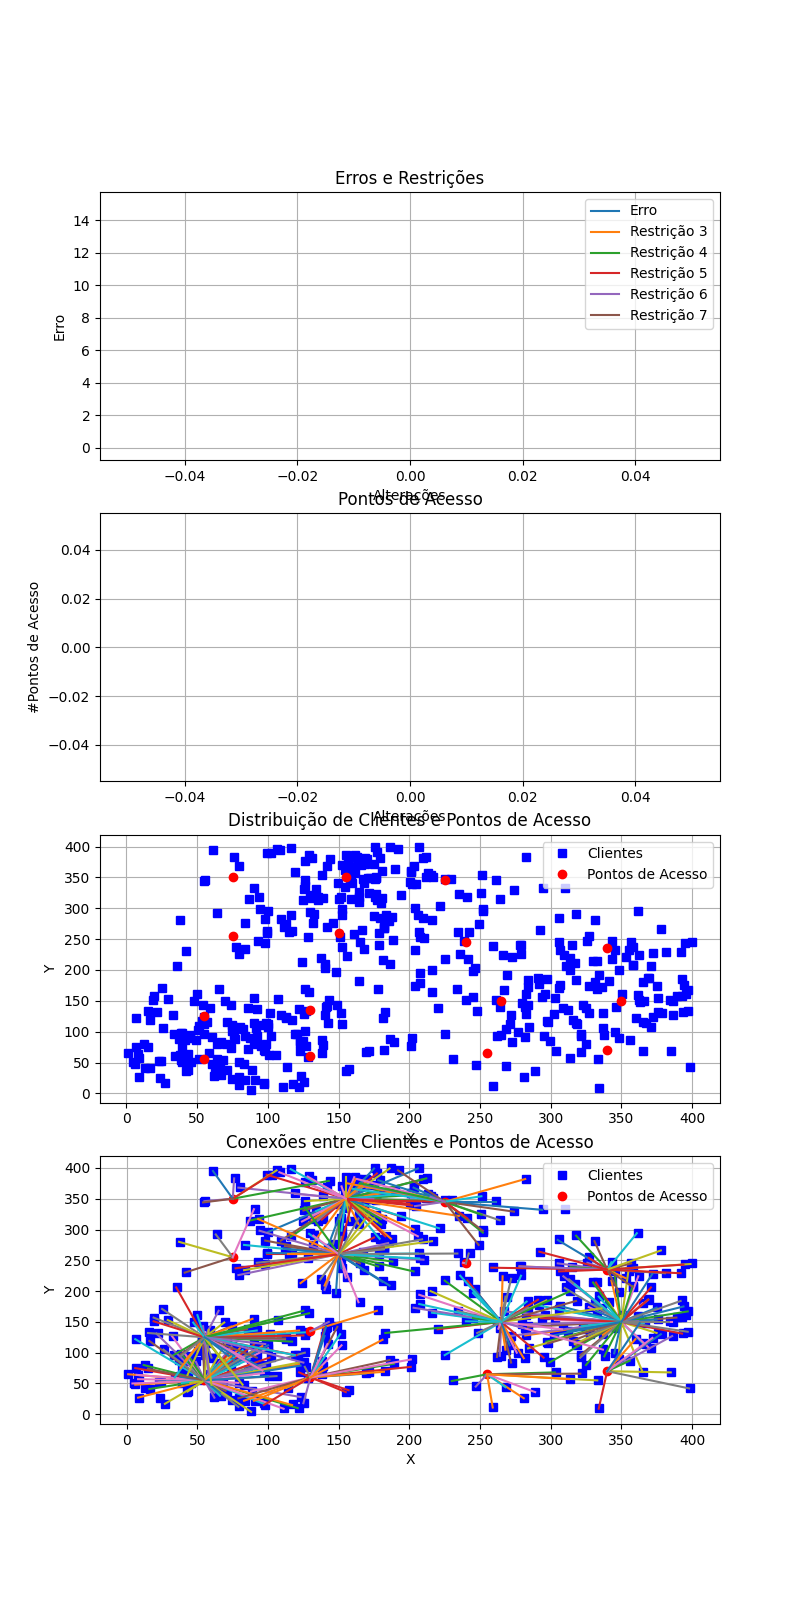
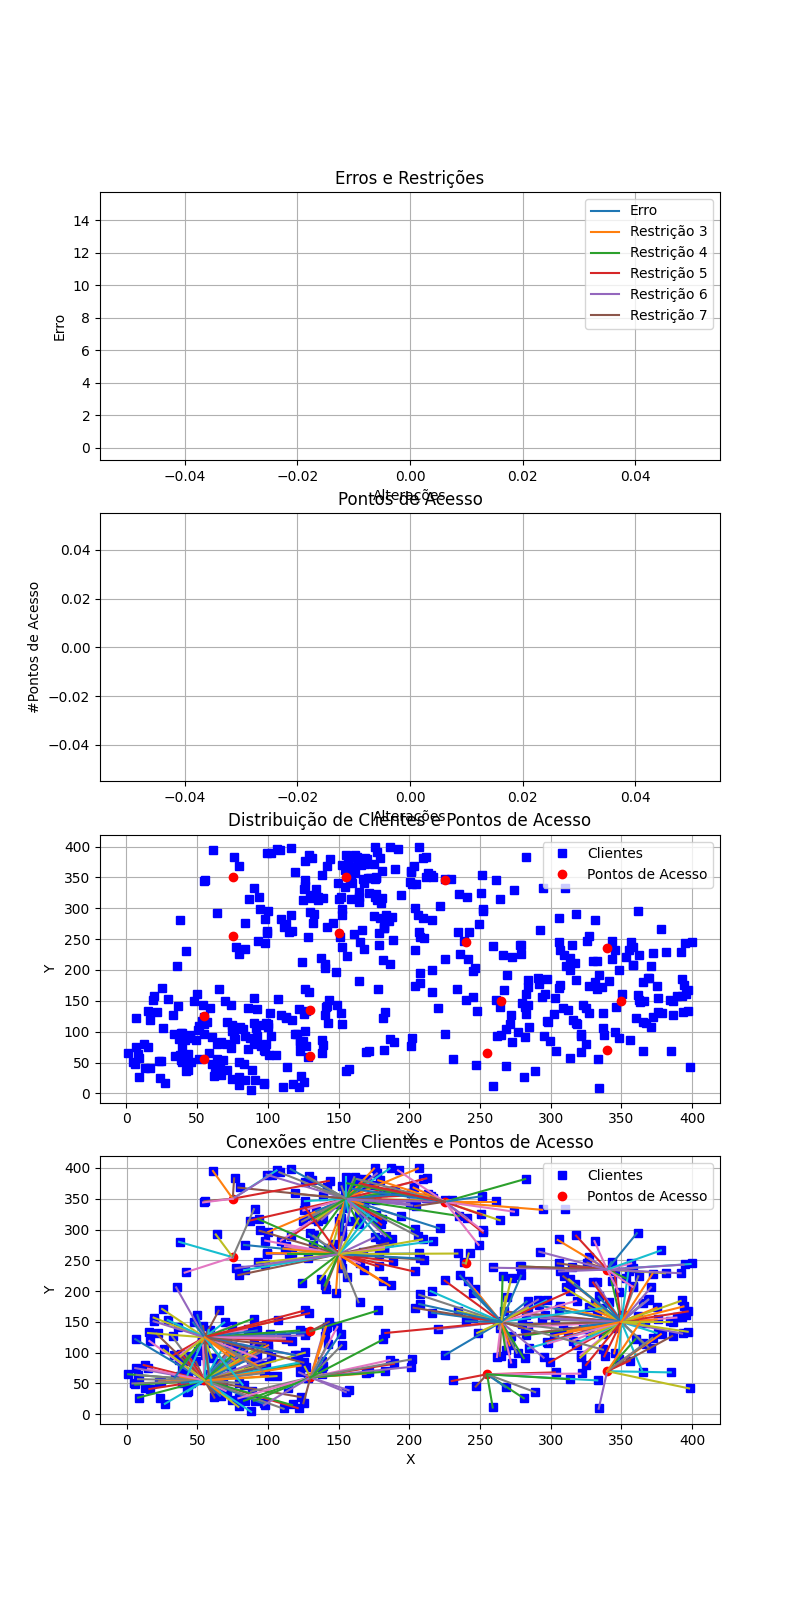
Falta entender pq r5 está com restriçao positiva (48 pessoas repetidas)

Changed region(s): [[0.1562, 0.7188, 0.875, 0.875]]

diff --git a/entregas/2 entrega/mop_solution/estrutura_vizinhanca.py b/entregas/2 entrega/mop_solution/estrutura_vizinhanca.py
@@ -39,10 +39,9 @@ def k1(dados):
     dados['cliente_por_PA'] = np.hstack((dados['cliente_por_PA'], coluna_zeros))
 
 
-    dados = realoca_clientes(dados, clientes_desalocados, 1)
+    dados = realoca_clientes(dados, clientes_desalocados)
 
     return dados
-
 
 def k2(dados):
     """
@@ -174,26 +173,72 @@ def k4(dados):
 
     return dados
 
+def k5(dados):
+    """
+    Estrutura de vizinhança que "move" um PA ativo para um ponto 
+    próximo 
+    Args:
+        dados: Um dicionário contendo os dados do problema.
 
-def realoca_clientes(dados, clientes, pa_priorizado = None):
-    dist_ord_clientes = calcular_dist_ord_cliente_PAs(dados['possiveis_coord_PA'])
+    Returns:
+        dados: O dicionário de dados atualizado com a nova solução.
+    """
+
+    PAs_ativos = dados['possiveis_coord_PA']
+    num_PAs_ativos = len(PAs_ativos)
+
+    # Encontra um PA ativo aleatorio e o desativa
+    idx_PA_aleatorio = np.random.choice(PAs_ativos.shape[0])
+    backup_PA = PAs_ativos[idx_PA_aleatorio]
+    PAs_ativos = np.delete(PAs_ativos, idx_PA_aleatorio, axis=0)
+    # Remove os clientes do PA
+    dados['possiveis_coord_PA'] = PAs_ativos
+    # Obtém os clientes do PA desativado primeiro
+    clientes_desalocados = np.where(dados['cliente_por_PA'][:, idx_PA_aleatorio] == 1)[0]
+    #Apaga o PA da relação clientes por PA
+    dados['cliente_por_PA'] = np.delete(dados['cliente_por_PA'], idx_PA_aleatorio, axis=1)
+    #Adiciona uma coluna para nao quebrar cliente_por_PA
+    coluna_zeros = np.zeros((dados['cliente_por_PA'].shape[0], 1))
+    dados['cliente_por_PA'] = np.hstack((dados['cliente_por_PA'], coluna_zeros))
+    #Adiciona um novo PA para a vizinhança do PA removido no fim do array
+    PA_na_vizinhanca = deslocar_coordenada(backup_PA)
+    PAs_ativos = np.append(PAs_ativos, [PA_na_vizinhanca], axis=0)
+    print(f"PA novo: {PAs_ativos[len(PAs_ativos) - 1]}")
+    coluna_PA_novo = dados['cliente_por_PA'][:, len(PAs_ativos) - 1]
+    soma_coluna = np.sum(coluna_PA_novo)
+    if soma_coluna > 0:
+        print(f"Coluna do PA novo nao ta zerada")
+    dados['possiveis_coord_PA'] = PAs_ativos
+    #Pega ID do novo PA, que é o ultimo da fila, e prioriza a conexao dos desalocados nele
+    idx_prioridade = len(PAs_ativos) - 1
+
+    dados = realoca_clientes(dados, clientes_desalocados, idx_prioridade)
+    print(f"{r3(dados)} | {r4(dados)} | {r5(dados)} | {r6(dados)} | {r7(dados)} | {r8(dados)}")
+    return dados
+
+
+def realoca_clientes(dados, clientes_indexes, pa_priorizado = None):
+    PAs_ordenados_por_prioridade = calcular_dist_ord_cliente_PAs(dados['possiveis_coord_PA'])
     if pa_priorizado is not None:
-        print(f"dist_ord_clientes: {dist_ord_clientes[0]}")
-        dist_ord_clientes = priorizar_PA(dist_ord_clientes, pa_priorizado)
-        print(f"dist_ord_clientes att: {dist_ord_clientes[0]}")
+        PAs_ordenados_por_prioridade = priorizar_PA(PAs_ordenados_por_prioridade, pa_priorizado)
     cliente_por_PA = dados['cliente_por_PA']
-    for i, cliente in enumerate(clientes):
-        # Limpa cliente que será realocado
-        cliente_por_PA[i] = np.zeros(dados['n_max_PAs'])
+    clientes_reconectados = 0
+    for i, cliente_idx in enumerate(clientes_indexes):
+        cliente_coord = dados['coord_clientes'][cliente_idx]
+        cliente_por_PA[cliente_idx] = np.zeros(dados['n_max_PAs'])
         consumo_PAs = np.zeros(len(dados['possiveis_coord_PA']))
 
         # Tenta conectar ao PA mais próximo com capacidade disponível
-        for PA in dist_ord_clientes[i]:
+        for PA in PAs_ordenados_por_prioridade[cliente_idx]:
             idx_PA = int(PA[2])
-            if client_is_able_to_connect(dados, i, cliente, PA[:2], consumo_PAs[idx_PA]):
-                cliente_por_PA[i][idx_PA] = 1
+            # print(f"Conectando cliente {cliente} ao pa novo: {PA}")
+            if client_is_able_to_connect(dados, cliente_idx, cliente_coord, PA[:2], consumo_PAs[idx_PA], 1):
+                clientes_reconectados = clientes_reconectados + 1
+                dados["cliente_por_PA"][i][idx_PA] = 1
                 consumo_PAs[idx_PA] += dados['cons_clientes'][i]
-            break
+                break
+            # print("Nao conseguiu")
+    print(f"Pessoas reconectadas: {clientes_reconectados}")
     somas = np.sum(cliente_por_PA, axis=1)
     # Verifique se todas as somas são iguais a 1
     todas_iguais_a_um = np.all((somas == 0.0) | (somas == 1.0))
@@ -237,11 +282,17 @@ def priorizar_PA(coord_PAs_idxados, idx_PA):
         else:
             # Extraia a linha prioritária
             linha_prioritaria = coord_PAs_idxados[i][indices_prioritarios[0]]
-            
             # Remova a linha prioritária da matriz
             matriz_sem_prioritaria = np.delete(coord_PAs_idxados[i], indices_prioritarios[0], axis=0)
-            
             # Adicione a linha prioritária no início da matriz
             matriz_ordenada[i] = np.vstack([linha_prioritaria, matriz_sem_prioritaria])
     
     return matriz_ordenada
+
+def deslocar_coordenada(coordenada):
+    deslocamentos = np.array([-5, 5])
+    deslocamento_x = np.random.choice(deslocamentos)
+    deslocamento_y = np.random.choice(deslocamentos)
+    nova_coordenada = coordenada + np.array([deslocamento_x, deslocamento_y])
+    
+    return nova_coordenada

diff --git a/entregas/2 entrega/mop_solution/solution.py b/entregas/2 entrega/mop_solution/solution.py
@@ -81,10 +81,15 @@ def sol_zero(dados):
 
     return dados
 
-def client_is_able_to_connect(dados, i, coord, posicao_PA, consumo_atual_pa):
-    return np.linalg.norm(coord - posicao_PA) <= dados['limite_sinal_PA'] and \
-           np.sum(dados['cliente_por_PA'][i]) ==  0 and \
-           consumo_atual_pa + dados['cons_clientes'][i] <= dados['capacidade_PA']
+def client_is_able_to_connect(dados, idx_cliente, posicao_cliente, posicao_PA, consumo_atual_pa, logs = None):
+    if logs is not None:
+        print(f" client is able to connect: {idx_cliente} | {posicao_cliente} | {posicao_PA} | {consumo_atual_pa}")
+        print(f" a distancia é: {np.linalg.norm(posicao_cliente - posicao_PA)}")
+        print(f" cliente está conectado: {np.sum(dados['cliente_por_PA'][idx_cliente])}")
+        print(f" o consumo ficaria: {consumo_atual_pa + dados['cons_clientes'][idx_cliente]}")
+    return np.linalg.norm(posicao_cliente - posicao_PA) <= dados['limite_sinal_PA'] and \
+           np.sum(dados['cliente_por_PA'][idx_cliente]) ==  0 and \
+           consumo_atual_pa + dados['cons_clientes'][idx_cliente] <= dados['capacidade_PA']
 
 def encontrar_divisores(numero):
     if numero <= 0:

diff --git a/entregas/2 entrega/mop_solution/basicvns.py b/entregas/2 entrega/mop_solution/basicvns.py
@@ -2,7 +2,7 @@ import numpy as np
 import os
 import sys, copy
 from random import seed
-from estrutura_vizinhanca import k1, k2, k3, k4
+from estrutura_vizinhanca import k1, k2, k3, k4, k5
 from restricoes import r3,r4,r5,r6,r7,r8,sum_restr
 from graph_maker import plot_infos
 from solution import sol_zero
@@ -59,7 +59,7 @@ def basic_VNS(dados, f, k_max, max_int, plot, n_plot):
 def shake(dados, k):
     n_change = 1
     switch = {
-        1: k1,
+        1: k5,
         2: k2,
         3: k3,
         4: k4
